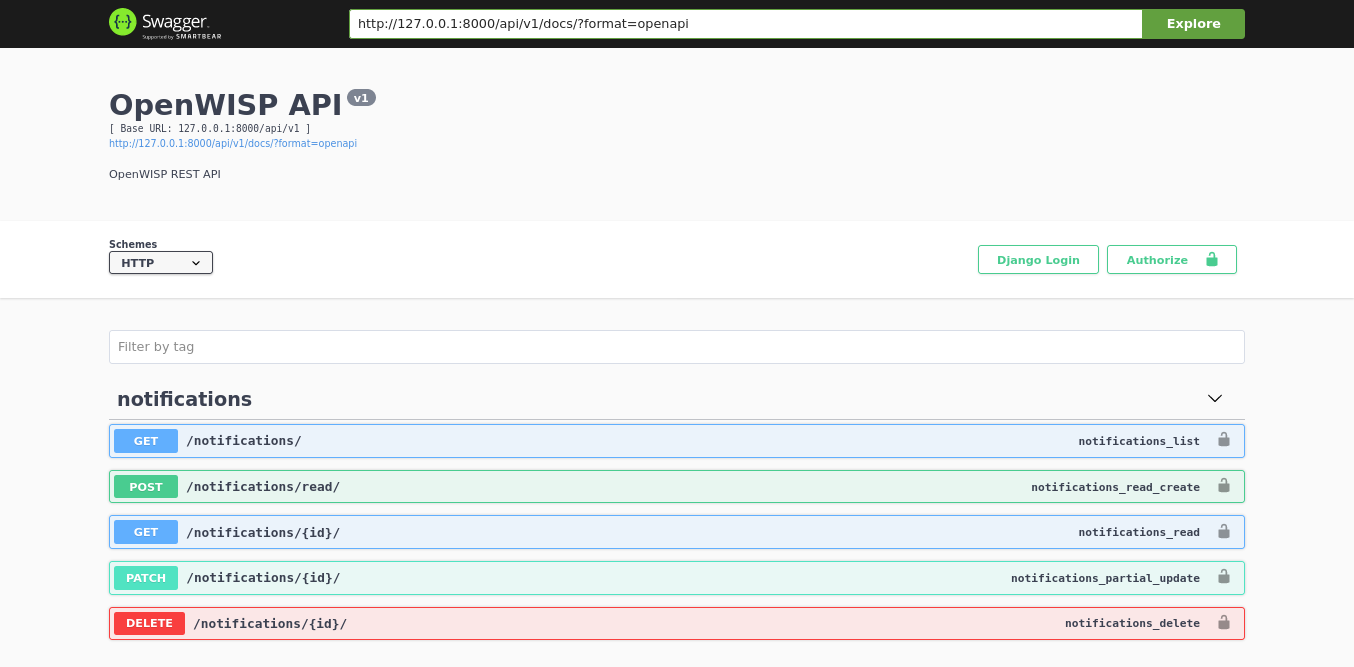
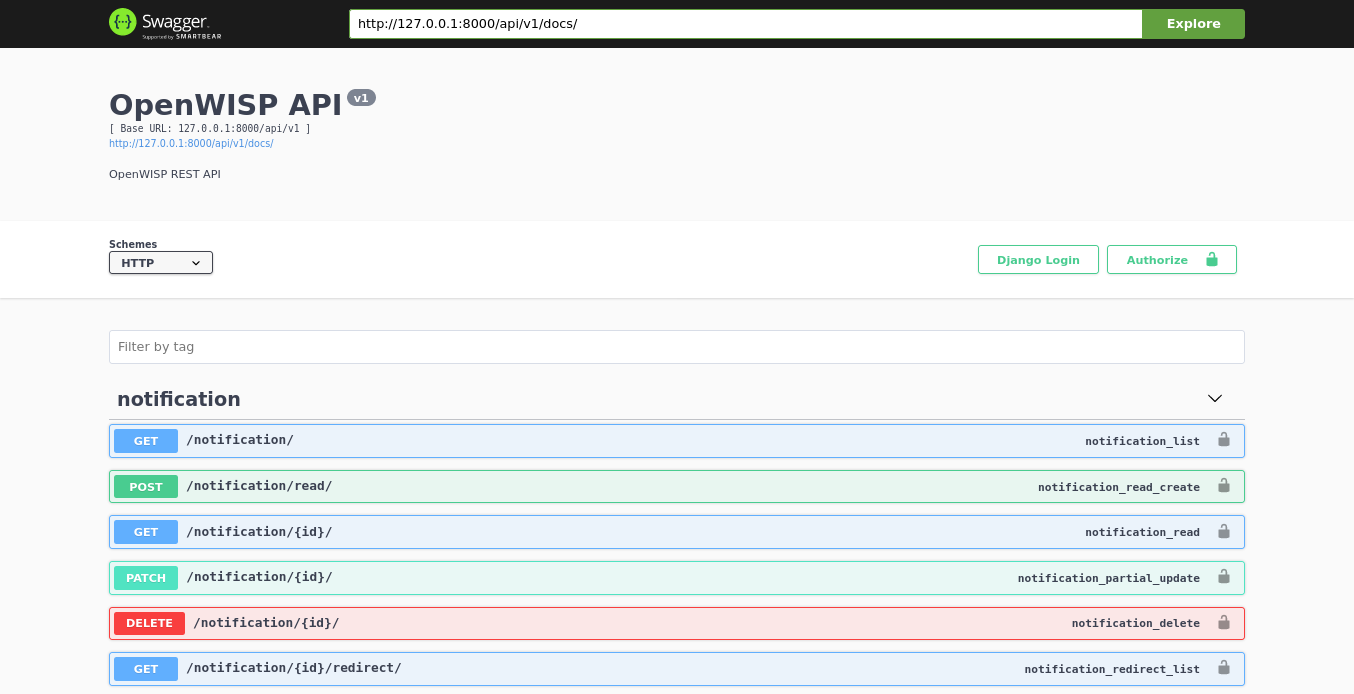
[chores] Updated README and standardized URL #80
Updated setup instructions
Standardized API URLS
Closes #80

diff --git a/openwisp_notifications/static/openwisp-notifications/js/notifications.js b/openwisp_notifications/static/openwisp-notifications/js/notifications.js
@@ -1,7 +1,7 @@
 'use strict';
 const notificationReadStatus = new Map();
 const notificationSocket = new ReconnectingWebSocket(
-    `${webSocketProtocol}://${notificationApiHost.host}/ws/notifications/`,
+    `${webSocketProtocol}://${notificationApiHost.host}/ws/notification/`,
     null, {
         debug: false
     }
@@ -35,7 +35,7 @@ function initNotificationDropDown($) {
 
 function notificationWidget($) {
 
-    let nextPageUrl = getAbsoluteUrl('/api/v1/notifications/'),
+    let nextPageUrl = getAbsoluteUrl('/api/v1/notification/'),
         renderedPages = 2,
         busy = false,
         fetchedPages = [],
@@ -177,11 +177,11 @@ function notificationWidget($) {
         onUpdate();
     }
 
-    function refreshNotificationWidget(e = null, url = '/api/v1/notifications/') {
+    function refreshNotificationWidget(e = null, url = '/api/v1/notification/') {
         $('.ow-notification-wrapper > div').remove('.page');
         fetchedPages.length = 0;
         lastRenderedPage = 0;
-        nextPageUrl = url;
+        nextPageUrl = getAbsoluteUrl(url);
         notificationReadStatus.clear();
         $('.ow-notification-wrapper').scroll();
     }
@@ -191,10 +191,10 @@ function notificationWidget($) {
     // Handler for filtering unread notifications
     $('#ow-show-unread').click(function () {
         if ($(this).html() === 'Show unread only') {
-            refreshNotificationWidget(null, '/api/v1/notifications/?unread=true');
+            refreshNotificationWidget(null, '/api/v1/notification/?unread=true');
             $(this).html('Show all');
         } else {
-            refreshNotificationWidget(null, '/api/v1/notifications/');
+            refreshNotificationWidget(null, '/api/v1/notification/');
             $(this).html('Show unread only');
         }
     });
@@ -203,7 +203,7 @@ function notificationWidget($) {
     $('#ow-mark-all-read').click(function () {
         $.ajax({
             type: 'POST',
-            url: getAbsoluteUrl('/api/v1/notifications/read/'),
+            url: getAbsoluteUrl('/api/v1/notification/read/'),
             headers: {
                 'X-CSRFToken': $('input[name="csrfmiddlewaretoken"]').val()
             },

diff --git a/openwisp_notifications/tests/test_websockets.py b/openwisp_notifications/tests/test_websockets.py
@@ -37,7 +37,7 @@ class TestNotificationSockets:
         session_id = admin_client.cookies['sessionid'].value
         communicator = WebsocketCommunicator(
             application,
-            path='ws/notifications/',
+            path='ws/notification/',
             headers=[(b'cookie', f'sessionid={session_id}'.encode('ascii'),)],
         )
         connected, subprotocol = await communicator.connect()

diff --git a/openwisp_notifications/urls.py b/openwisp_notifications/urls.py
@@ -9,7 +9,7 @@ def get_urls(api_views=None, social_views=None):
     Arguments:
         api_views(optional): views for Notifications API
     """
-    urls = [path('api/v1/notifications/', include(get_api_urls(api_views)))]
+    urls = [path('api/v1/notification/', include(get_api_urls(api_views)))]
     return urls
 
 

diff --git a/openwisp_notifications/websockets/routing.py b/openwisp_notifications/websockets/routing.py
@@ -8,5 +8,5 @@ def get_routes(consumer=None):
     if not consumer:
         consumer = ow_consumers
     return [
-        path('ws/notifications/', consumer.NotificationConsumer),
+        path('ws/notification/', consumer.NotificationConsumer),
     ]

diff --git a/README.rst b/README.rst
@@ -79,7 +79,6 @@ Setup (integrate into an existing Django project)
         'openwisp_notifications',
         # channels
         'channels',
-     ]
     ]
 
 Add ``notification_api_settings`` context processor:
@@ -127,10 +126,10 @@ Add routes for websockets:
     # In yourproject/routing.py
     from channels.auth import AuthMiddlewareStack
     from channels.routing import ProtocolTypeRouter, URLRouter
-    from openwisp_notifications.websockets import routing as ws_routing
+    from openwisp_notifications.websockets.routing import get_routes
 
     application = ProtocolTypeRouter(
-        {'websocket': AuthMiddlewareStack(URLRouter(ws_routing.websocket_urlpatterns))}
+        {'websocket': AuthMiddlewareStack(URLRouter(get_routes()))}
     )
 
 Configure caching (you may use a different cache storage if you want):
@@ -182,6 +181,17 @@ Configure channel layers (you may user a `different channel layer <https://chann
             },
         },
     }
+
+By default, websockets communicate over ``wss`` protocol. If for some reason, you want them to communicate
+over ``ws`` protocol e.g. while development, you will need to configure ``INTERNAL_IPS`` setting accordingly.
+For more information please refer to
+`"INTERNAL_IPS" section of Django's settings documentation<https://docs.djangoproject.com/en/3.0/ref/settings/#internal-ips>`_.
+
+While development, you can configure it to localhost as shown below:
+
+.. code-block:: python
+
+    INTERNAL_IPS = ['127.0.0.1']
 
 Sending notifications
 ---------------------
@@ -634,8 +644,8 @@ the results in conjunction with the ``page`` parameter.
 
 .. code-block:: text
 
-    GET /api/v1/notifications/?page_size=10
-    GET api/v1/notifications/?page_size=10&page=2
+    GET /api/v1/notification/?page_size=10
+    GET /api/v1/notification/?page_size=10&page=2
 
 List of endpoints
 ~~~~~~~~~~~~~~~~~
@@ -650,35 +660,35 @@ List user's notifications
 
 .. code-block:: text
 
-    GET /api/v1/notifications/
+    GET /api/v1/notification/
 
 Mark all user's notifications read
 ##################################
 
 .. code-block:: text
 
-    POST /api/v1/notifications/read/
+    POST /api/v1/notification/read/
 
 Get notification details
 ########################
 
 .. code-block:: text
 
-    GET /api/v1/notifications/{pk}/
+    GET /api/v1/notification/{pk}/
 
 Mark a notification read
 ########################
 
 .. code-block:: text
 
-    PATCH /api/v1/notifications/{pk}/
+    PATCH /api/v1/notification/{pk}/
 
 Delete a notification
 #####################
 
 .. code-block:: text
 
-    DELETE /api/v1/notifications/{pk}/
+    DELETE /api/v1/notification/{pk}/
 
 Installing for development
 --------------------------
